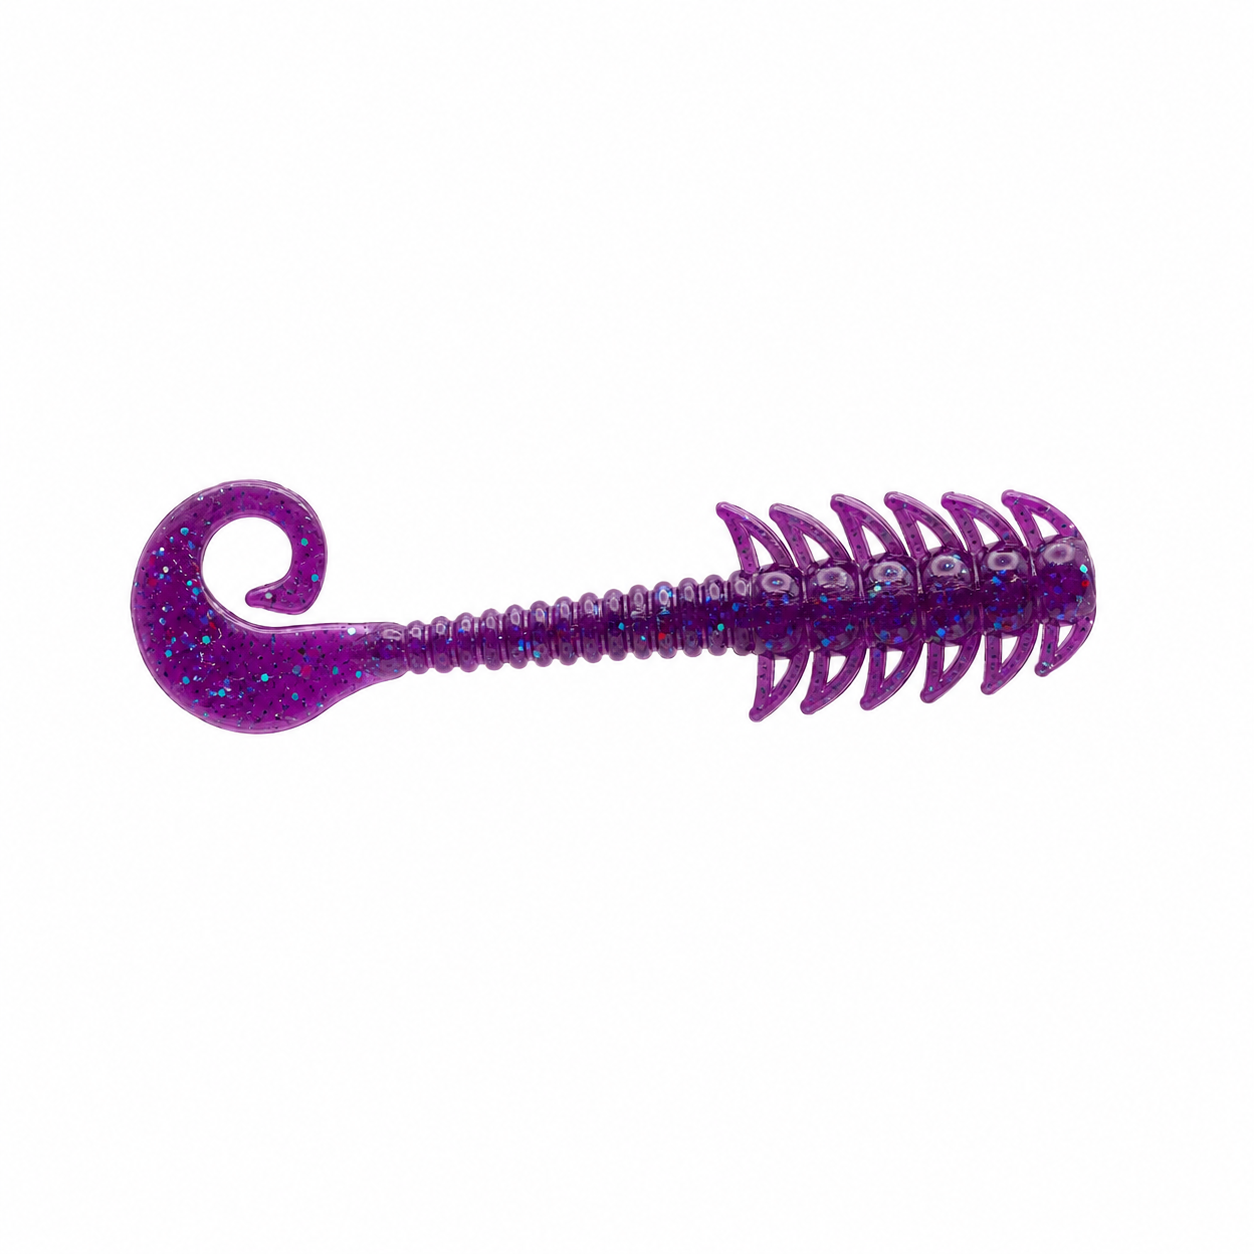
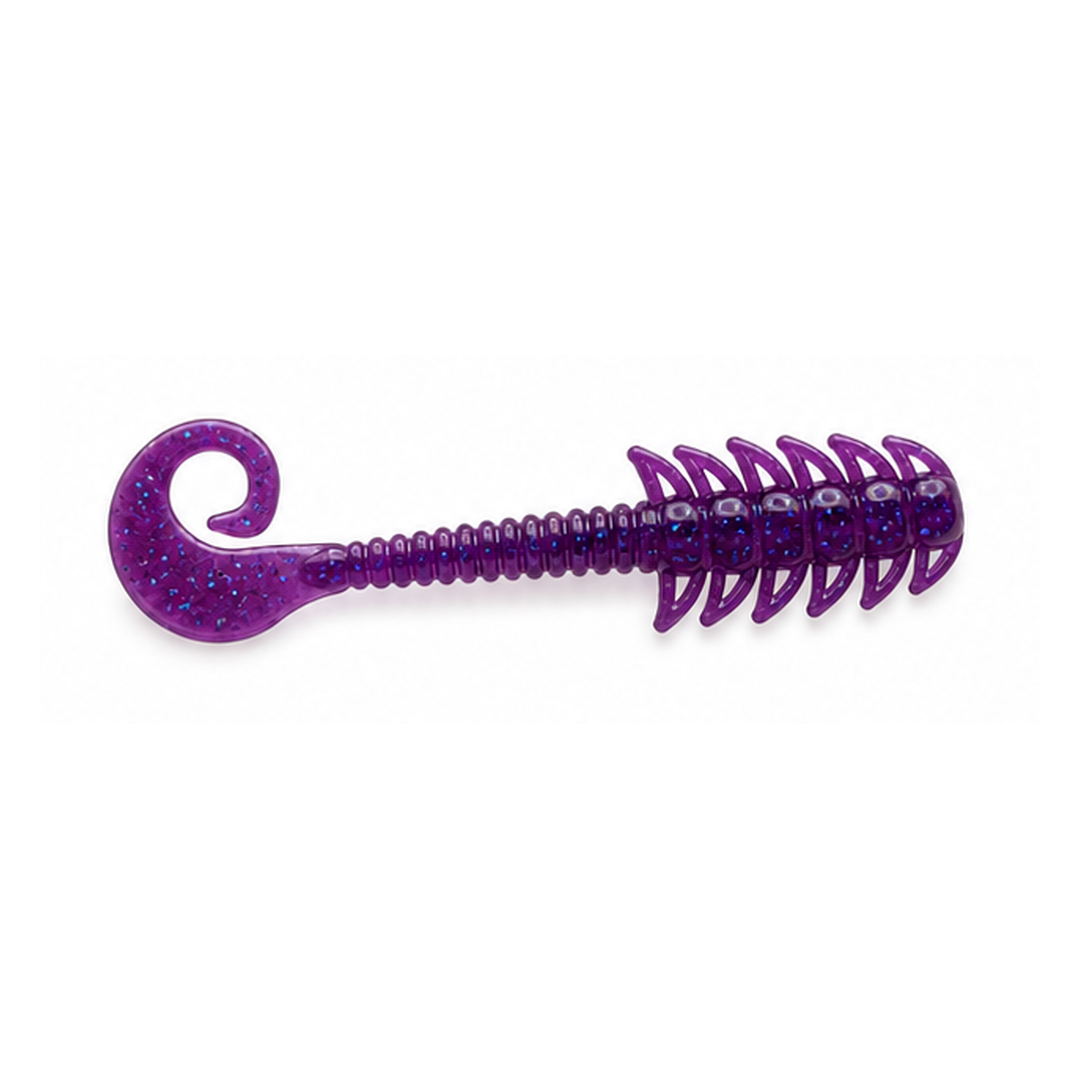
feat: completa as 13 cores de 9 iscas legadas da familia Aji + Wave Grub
AjiGrub, AjiFukura, AjiAero, AjiBeast, AjiEgg, AjiHane, AjiKaze, AjiKoka
e Wave Grub ganham Pastel, Rapadura e Veu da Noite (antes ausentes) e
a foto de Roxo Estrelar/Estelar atualizada. Tambem corrige a chave do
manifest 'roxoestrelnar' (erro de digitacao legado) para 'roxoestrelar',
que impedia o app de encontrar a foto certa ao selecionar essa cor.

Changed region(s): [[0.0917, 0.3667, 0.9167, 0.6111]]

diff --git a/src/utils/lureColorImages.js b/src/utils/lureColorImages.js
@@ -819,9 +819,12 @@ export const lureColorManifest = {
     "glow": "iscas_cores/isca-artificial-ajigrub/Glow.png",
     "laranjaneon": "iscas_cores/isca-artificial-ajigrub/laranja-Neon.png",
     "pretobrilhante": "iscas_cores/isca-artificial-ajigrub/preto-brilhante.png",
-    "roxoestrelnar": "iscas_cores/isca-artificial-ajigrub/Roxo-Estrelnar.png",
+    "roxoestrelar": "iscas_cores/isca-artificial-ajigrub/Roxo-Estrelnar.png",
     "verdeneon": "iscas_cores/isca-artificial-ajigrub/Verde neon.png",
-    "vermelhoholografico": "iscas_cores/isca-artificial-ajigrub/Vermelho-Holografico.png"
+    "vermelhoholografico": "iscas_cores/isca-artificial-ajigrub/Vermelho-Holografico.png",
+    "pastel": "iscas_cores/isca-artificial-ajigrub/Pastel.png",
+    "rapadura": "iscas_cores/isca-artificial-ajigrub/Rapadura.png",
+    "veudanoite": "iscas_cores/isca-artificial-ajigrub/Veu-da-noite.png",
   },
   "kit-isca-artificial-aji-fukura": {
     "amareloneon": "iscas_cores/kit-isca-artificial-aji-fukura/amarelo-neon.png",
@@ -831,9 +834,12 @@ export const lureColorManifest = {
     "glow": "iscas_cores/kit-isca-artificial-aji-fukura/Glow.png",
     "laranjaneon": "iscas_cores/kit-isca-artificial-aji-fukura/laranja-Neon.png",
     "pretobrilhante": "iscas_cores/kit-isca-artificial-aji-fukura/preto-brilhante.png",
-    "roxoestrelnar": "iscas_cores/kit-isca-artificial-aji-fukura/Roxo-Estrelnar.png",
+    "roxoestrelar": "iscas_cores/kit-isca-artificial-aji-fukura/Roxo-Estrelnar.png",
     "verdeneon": "iscas_cores/kit-isca-artificial-aji-fukura/Verde neon.png",
-    "vermelhoholografico": "iscas_cores/kit-isca-artificial-aji-fukura/Vermelho-Holografico.png"
+    "vermelhoholografico": "iscas_cores/kit-isca-artificial-aji-fukura/Vermelho-Holografico.png",
+    "pastel": "iscas_cores/kit-isca-artificial-aji-fukura/Pastel.png",
+    "rapadura": "iscas_cores/kit-isca-artificial-aji-fukura/Rapadura.png",
+    "veudanoite": "iscas_cores/kit-isca-artificial-aji-fukura/Veu-da-noite.png",
   },
   "kit-isca-artificial-ajiaero": {
     "amareloneon": "iscas_cores/kit-isca-artificial-ajiaero/amarelo-neon.png",
@@ -843,9 +849,12 @@ export const lureColorManifest = {
     "glow": "iscas_cores/kit-isca-artificial-ajiaero/Glow.png",
     "laranjaneon": "iscas_cores/kit-isca-artificial-ajiaero/laranja-Neon.png",
     "pretobrilhante": "iscas_cores/kit-isca-artificial-ajiaero/preto-brilhante.png",
-    "roxoestrelnar": "iscas_cores/kit-isca-artificial-ajiaero/Roxo-Estrelnar.png",
+    "roxoestrelar": "iscas_cores/kit-isca-artificial-ajiaero/Roxo-Estrelnar.png",
     "verdeneon": "iscas_cores/kit-isca-artificial-ajiaero/Verde neon.png",
-    "vermelhoholografico": "iscas_cores/kit-isca-artificial-ajiaero/Vermelho-Holografico.png"
+    "vermelhoholografico": "iscas_cores/kit-isca-artificial-ajiaero/Vermelho-Holografico.png",
+    "pastel": "iscas_cores/kit-isca-artificial-ajiaero/Pastel.png",
+    "rapadura": "iscas_cores/kit-isca-artificial-ajiaero/Rapadura.png",
+    "veudanoite": "iscas_cores/kit-isca-artificial-ajiaero/Veu-da-noite.png",
   },
   "kit-isca-artificial-ajibeast": {
     "amareloneon": "iscas_cores/kit-isca-artificial-ajibeast/amarelo-neon.png",
@@ -855,9 +864,12 @@ export const lureColorManifest = {
     "glow": "iscas_cores/kit-isca-artificial-ajibeast/Glow.png",
     "laranjaneon": "iscas_cores/kit-isca-artificial-ajibeast/laranja-Neon.png",
     "pretobrilhante": "iscas_cores/kit-isca-artificial-ajibeast/preto-brilhante.png",
-    "roxoestrelnar": "iscas_cores/kit-isca-artificial-ajibeast/Roxo-Estrelnar.png",
+    "roxoestrelar": "iscas_cores/kit-isca-artificial-ajibeast/Roxo-Estrelnar.png",
     "verdeneon": "iscas_cores/kit-isca-artificial-ajibeast/Verde neon.png",
-    "vermelhoholografico": "iscas_cores/kit-isca-artificial-ajibeast/Vermelho-Holografico.png"
+    "vermelhoholografico": "iscas_cores/kit-isca-artificial-ajibeast/Vermelho-Holografico.png",
+    "pastel": "iscas_cores/kit-isca-artificial-ajibeast/Pastel.png",
+    "rapadura": "iscas_cores/kit-isca-artificial-ajibeast/Rapadura.png",
+    "veudanoite": "iscas_cores/kit-isca-artificial-ajibeast/Veu-da-noite.png",
   },
   "kit-isca-artificial-ajiegg": {
     "amareloneon": "iscas_cores/kit-isca-artificial-ajiegg/amarelo-neon.png",
@@ -867,9 +879,12 @@ export const lureColorManifest = {
     "glow": "iscas_cores/kit-isca-artificial-ajiegg/Glow.png",
     "laranjaneon": "iscas_cores/kit-isca-artificial-ajiegg/laranja-Neon.png",
     "pretobrilhante": "iscas_cores/kit-isca-artificial-ajiegg/preto-brilhante.png",
-    "roxoestrelnar": "iscas_cores/kit-isca-artificial-ajiegg/Roxo-Estrelnar.png",
+    "roxoestrelar": "iscas_cores/kit-isca-artificial-ajiegg/Roxo-Estrelnar.png",
     "verdeneon": "iscas_cores/kit-isca-artificial-ajiegg/Verde neon.png",
-    "vermelhoholografico": "iscas_cores/kit-isca-artificial-ajiegg/Vermelho-Holografico.png"
+    "vermelhoholografico": "iscas_cores/kit-isca-artificial-ajiegg/Vermelho-Holografico.png",
+    "pastel": "iscas_cores/kit-isca-artificial-ajiegg/Pastel.png",
+    "rapadura": "iscas_cores/kit-isca-artificial-ajiegg/Rapadura.png",
+    "veudanoite": "iscas_cores/kit-isca-artificial-ajiegg/Veu-da-noite.png",
   },
   "kit-isca-artificial-ajihane": {
     "amareloneon2": "iscas_cores/kit-isca-artificial-ajihane/amarelo-neon-2.png",
@@ -880,9 +895,12 @@ export const lureColorManifest = {
     "glow": "iscas_cores/kit-isca-artificial-ajihane/Glow.png",
     "laranjaneon": "iscas_cores/kit-isca-artificial-ajihane/laranja-Neon.png",
     "pretobrilhante": "iscas_cores/kit-isca-artificial-ajihane/preto-brilhante.png",
-    "roxoestrelnar": "iscas_cores/kit-isca-artificial-ajihane/Roxo-Estrelnar.png",
+    "roxoestrelar": "iscas_cores/kit-isca-artificial-ajihane/Roxo-Estrelnar.png",
     "verdeneon": "iscas_cores/kit-isca-artificial-ajihane/Verde neon.png",
-    "vermelhoholografico": "iscas_cores/kit-isca-artificial-ajihane/Vermelho-Holografico.png"
+    "vermelhoholografico": "iscas_cores/kit-isca-artificial-ajihane/Vermelho-Holografico.png",
+    "pastel": "iscas_cores/kit-isca-artificial-ajihane/Pastel.png",
+    "rapadura": "iscas_cores/kit-isca-artificial-ajihane/Rapadura.png",
+    "veudanoite": "iscas_cores/kit-isca-artificial-ajihane/Veu-da-noite.png",
   },
   "kit-isca-artificial-ajikaze": {
     "amareloneon": "iscas_cores/kit-isca-artificial-ajikaze/amarelo-neon.png",
@@ -892,9 +910,12 @@ export const lureColorManifest = {
     "glow": "iscas_cores/kit-isca-artificial-ajikaze/Glow.png",
     "laranjaneon": "iscas_cores/kit-isca-artificial-ajikaze/laranja-Neon.png",
     "pretobrilhante": "iscas_cores/kit-isca-artificial-ajikaze/preto-brilhante.png",
-    "roxoestrelnar": "iscas_cores/kit-isca-artificial-ajikaze/Roxo-Estrelnar.png",
+    "roxoestrelar": "iscas_cores/kit-isca-artificial-ajikaze/Roxo-Estrelnar.png",
     "verdeneon": "iscas_cores/kit-isca-artificial-ajikaze/Verde neon.png",
-    "vermelhoholografico": "iscas_cores/kit-isca-artificial-ajikaze/Vermelho-Holografico.png"
+    "vermelhoholografico": "iscas_cores/kit-isca-artificial-ajikaze/Vermelho-Holografico.png",
+    "pastel": "iscas_cores/kit-isca-artificial-ajikaze/Pastel.png",
+    "rapadura": "iscas_cores/kit-isca-artificial-ajikaze/Rapadura.png",
+    "veudanoite": "iscas_cores/kit-isca-artificial-ajikaze/Veu-da-noite.png",
   },
   "kit-isca-artificial-ajikoka": {
     "amareloneon": "iscas_cores/kit-isca-artificial-ajikoka/amarelo-neon.png",
@@ -904,9 +925,12 @@ export const lureColorManifest = {
     "glow": "iscas_cores/kit-isca-artificial-ajikoka/Glow.png",
     "laranjaneon": "iscas_cores/kit-isca-artificial-ajikoka/laranja-Neon.png",
     "pretobrilhante": "iscas_cores/kit-isca-artificial-ajikoka/preto-brilhante.png",
-    "roxoestrelnar": "iscas_cores/kit-isca-artificial-ajikoka/Roxo-Estrelnar.png",
+    "roxoestrelar": "iscas_cores/kit-isca-artificial-ajikoka/Roxo-Estrelnar.png",
     "verdeneon": "iscas_cores/kit-isca-artificial-ajikoka/Verde neon.png",
-    "vermelhoholografico": "iscas_cores/kit-isca-artificial-ajikoka/Vermelho-Holografico.png"
+    "vermelhoholografico": "iscas_cores/kit-isca-artificial-ajikoka/Vermelho-Holografico.png",
+    "pastel": "iscas_cores/kit-isca-artificial-ajikoka/Pastel.png",
+    "rapadura": "iscas_cores/kit-isca-artificial-ajikoka/Rapadura.png",
+    "veudanoite": "iscas_cores/kit-isca-artificial-ajikoka/Veu-da-noite.png",
   },
   "kit-isca-artificial-wave-grub": {
     "amareloneon": "iscas_cores/kit-isca-artificial-wave-grub/amarelo-neon.png",
@@ -917,9 +941,12 @@ export const lureColorManifest = {
     "glow": "iscas_cores/kit-isca-artificial-wave-grub/Glow.png",
     "laranjaneon": "iscas_cores/kit-isca-artificial-wave-grub/laranja-Neon.png",
     "pretobrilhante": "iscas_cores/kit-isca-artificial-wave-grub/preto-brilhante.png",
-    "roxoestrelnar": "iscas_cores/kit-isca-artificial-wave-grub/Roxo-Estrelnar.png",
+    "roxoestrelar": "iscas_cores/kit-isca-artificial-wave-grub/Roxo-Estrelnar.png",
     "verdeneon": "iscas_cores/kit-isca-artificial-wave-grub/Verde neon.png",
-    "vermelhoholografico": "iscas_cores/kit-isca-artificial-wave-grub/Vermelho-Holografico.png"
+    "vermelhoholografico": "iscas_cores/kit-isca-artificial-wave-grub/Vermelho-Holografico.png",
+    "pastel": "iscas_cores/kit-isca-artificial-wave-grub/Pastel.png",
+    "rapadura": "iscas_cores/kit-isca-artificial-wave-grub/Rapadura.png",
+    "veudanoite": "iscas_cores/kit-isca-artificial-wave-grub/Veu-da-noite.png",
   }
 };
 
